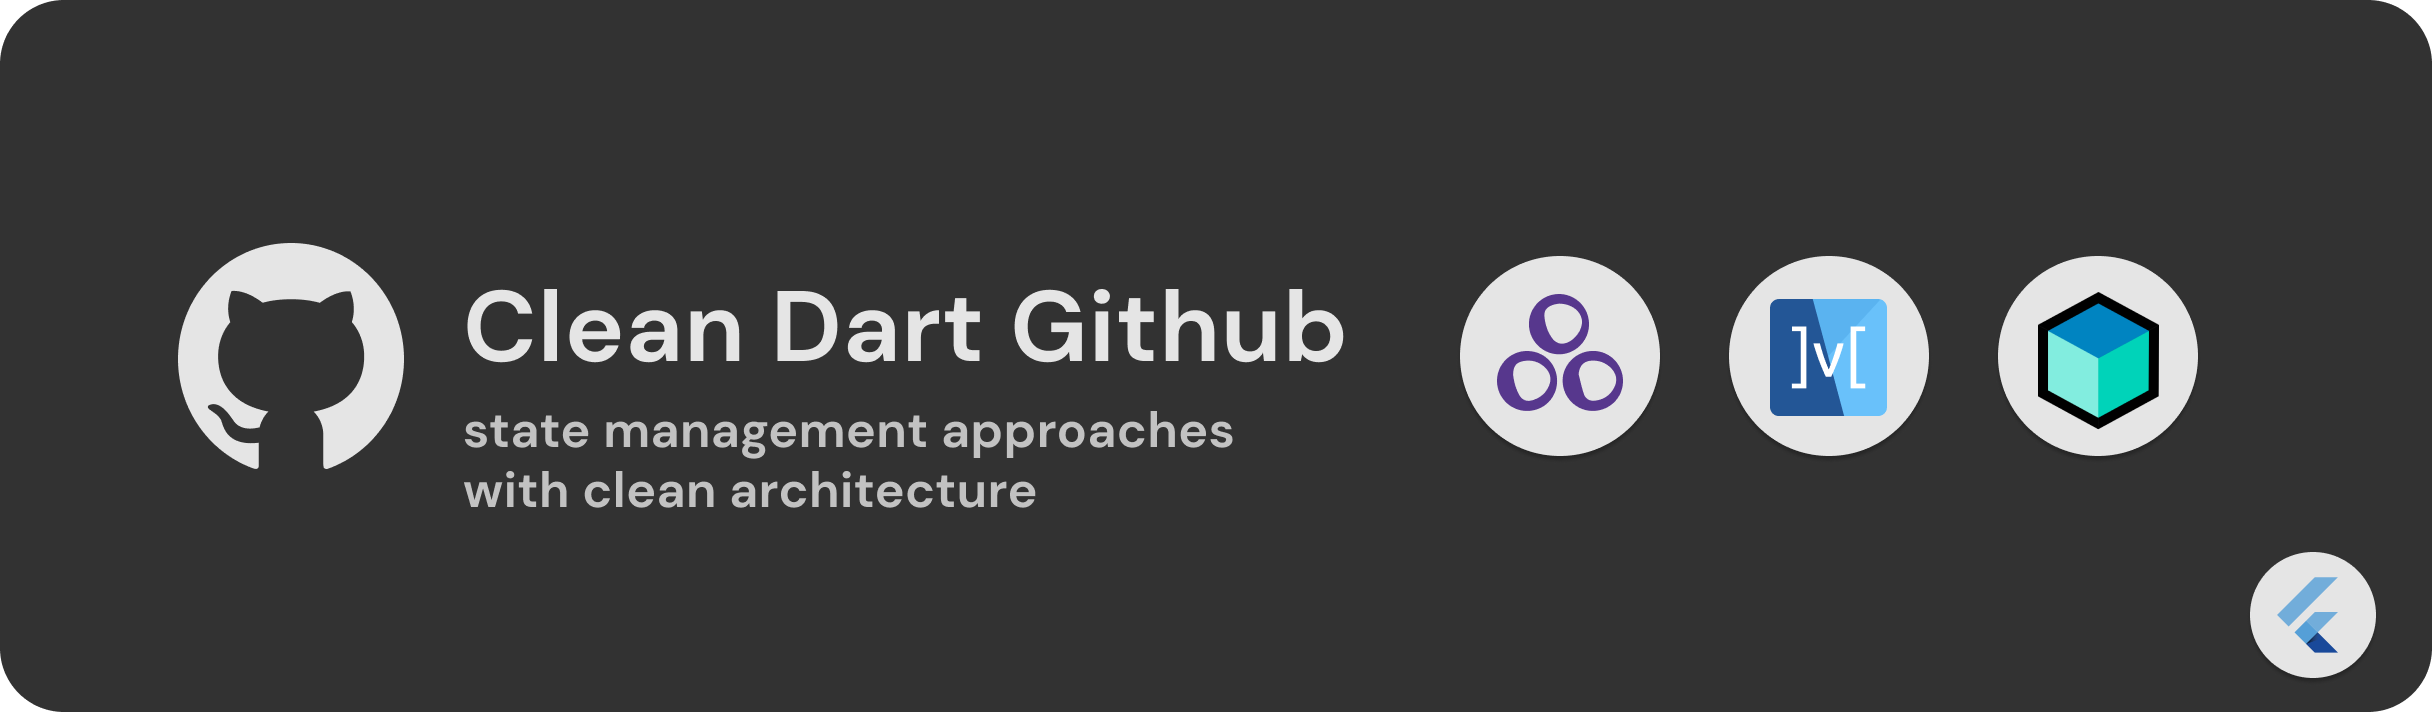
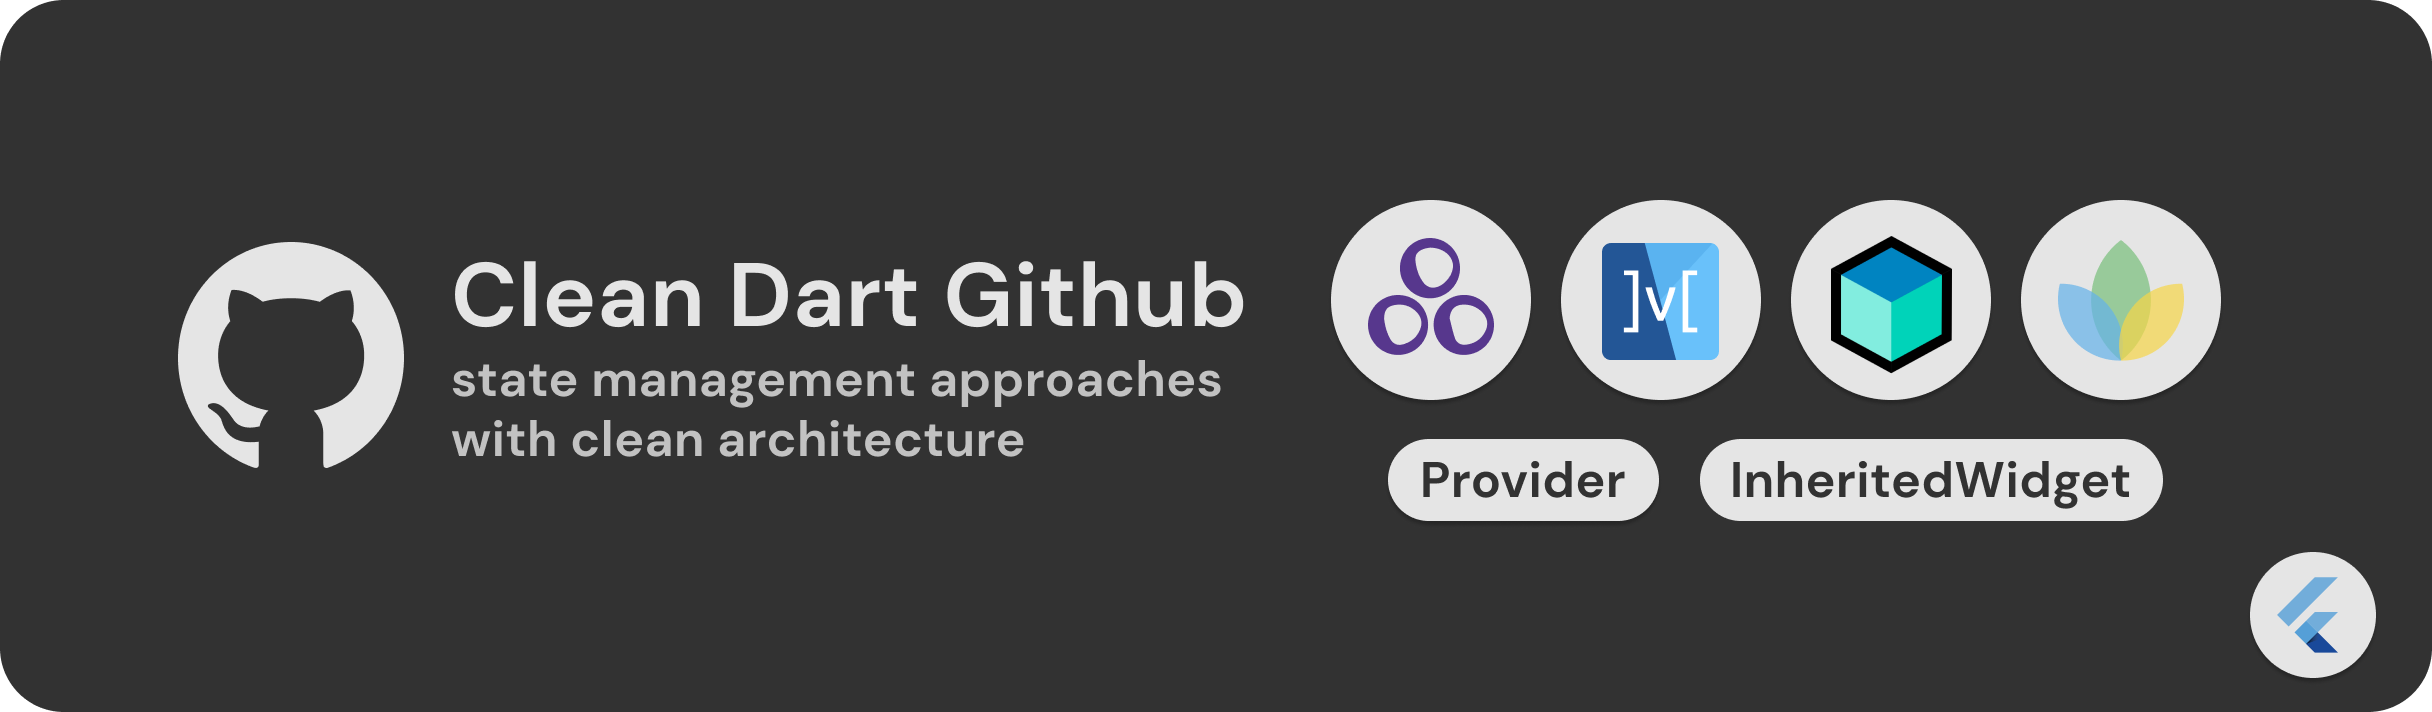
update readme

Changed region(s): [[0.1875, 0.2781, 0.9375, 0.7416]]

diff --git a/README.md b/README.md
@@ -13,9 +13,9 @@ Following the Clean Dart principles, we must separate our project into 4 layers:
 3. `Infrastructure` 
 4. `External`
  
-Highlighting that the `Presenter` layer is responsible for allocating _pages_, _widgets_, _state management_ and that 3 state managers (**_Mobx_**, **_Getx_** and **_Bloc_**) were selected for this POC, it becomes understandable to group `Domain`, `Infra`, `External` layers and their respective _unit tests_ in a single project and create a separate project for each state management approach 
+Highlighting that the `Presenter` layer is responsible for allocating _pages_, _widgets_ and _state management_ , it becomes understandable to group `Domain`, `Infra`, `External` layers and their respective _unit tests_ in a single project being exported as a dependency, so we can have multiple separate repositories with different state management approaches  using the same business logic and components.
 
-Still with a top-down view, it's possible to notice that as the components of each project will be the same, so we can allocate the widgets in `github_commons` as well.
+Still with a top-down view, it's possible to notice that as the components and assets (fonts, images) of each project will be the same, so we can allocate the widgets in `github_commons` as well.
 
 # 🚀 Github data
 The project works with the Github API through the requests:
@@ -37,6 +37,9 @@ These usecases are called in all projects in which they have their data handled 
 | `github_mobx`    | Presenter               | `Mobx` - Library for reactively managing the state of your applications. Use the power of observables, actions, and reactions to supercharge your Dart and Flutter apps. | [ mobx ]( https://pub.dev/packages/mobx ), [ flutter_mobx ]( https://pub.dev/packages/flutter_mobx ) |
 | `github_getx`    | Presenter               | `Getx` - Open screens/snackbars/dialogs without context, manage states and inject dependencies easily                                                                    | [get](https://pub.dev/packages/get)                                                                  |
 | `github_bloc`    | Presenter               | `Bloc` - A predictable state management library that helps implement the Business Logic Component design pattern.                                                        | [bloc](https://pub.dev/packages/bloc), [flutter_bloc](https://pub.dev/packages/bloc)                 |
+| `github_triple`    | Presenter               | `Triple` - an abstraction of the Segmented State Pattern that forces architectural barriers to individual reactivities.                                                        | [triple](https://pub.dev/packages/triple)                 |
+| `github_provider`    | Presenter               | `Provider` - A wrapper around InheritedWidget to make them easier to use and more reusable.                                                        | [provider](https://pub.dev/packages/provider)                 |
+| `github_inherited`    | Presenter               | `InheritedWidget` - Base class for widgets that efficiently propagate information down the tree.                                                        | [InheritedWidget class](https://api.flutter.dev/flutter/widgets/InheritedWidget-class.html)                 |
 | `github_commons` | Domain, Infra, External | None                                                                                                                                                                     | [dio](https://pub.dev/packages/dio), [flutter_svg](https://pub.dev/packages/flutter_svg), [equatable](https://pub.dev/packages/equatable), [url_launcher](https://pub.dev/packages/url_launcher), [json_annotation](https://pub.dev/packages/json_annotation), [flutter_modular](https://pub.dev/packages/flutter_modular)  |
 
 ![TopDownVision](./assets/top_down.png)
@@ -72,9 +75,11 @@ dependencies:
   get: 4.6.5
   bloc: 8.1.0
   flutter_bloc: 8.1.1
+  flutter_triple: ^1.2.7+4
+  provider: ^6.0.3
 ```
 
 
 # 📁 Screen Flow
- <img src="https://github.com/whosramoss/flutter-github-state-management/blob/master/assets/recording_app.gif"  alt="App"  width="200">
+ <img src="https://github.com/whosramoss/flutter-github-state-management/blob/master/assets/appvideo.gif"  alt="App"  width="200">
 
